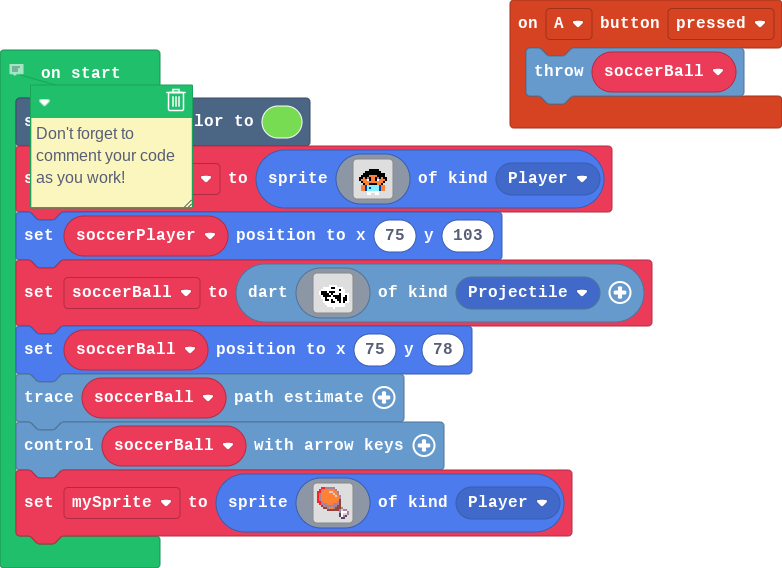
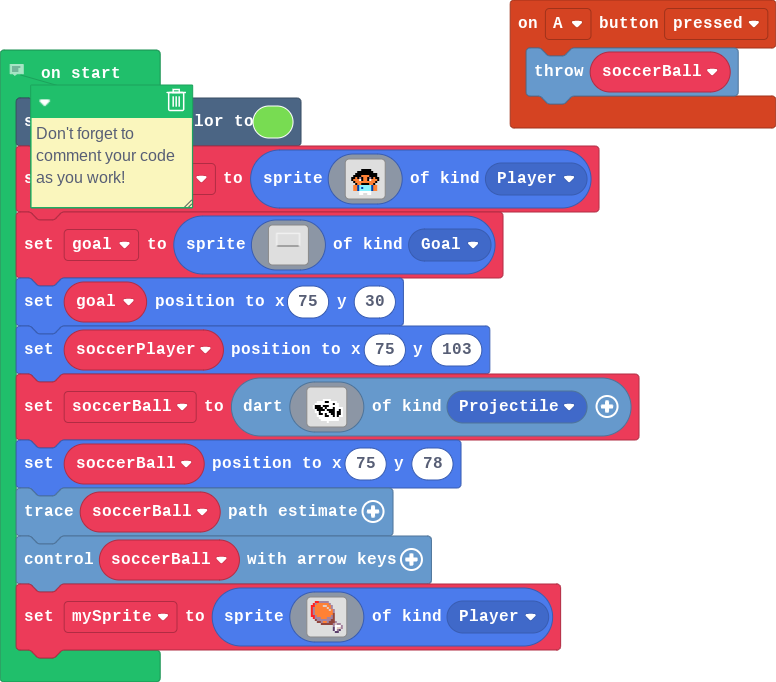
Update main.blocks, main.ts

diff --git a/main.ts b/main.ts
@@ -1,7 +1,10 @@
+namespace SpriteKind {
+    export const Goal = SpriteKind.create()
+}
 controller.A.onEvent(ControllerButtonEvent.Pressed, function () {
     soccerBall.throwDart()
 })
-// Don't forget to comment your code as you work!
+// Don't forget to comment your code as you work!        
 let soccerBall: Dart = null
 scene.setBackgroundColor(7)
 let soccerPlayer = sprites.create(img`
@@ -22,6 +25,69 @@ let soccerPlayer = sprites.create(img`
     . . . . . 1 1 1 1 1 1 . . . . . 
     . . . . . 1 1 . . 1 1 . . . . . 
     `, SpriteKind.Player)
+let goal = sprites.create(img`
+    ..........11111111111111111111111111111111111111111111111111111111111...........
+    ..........11111111111111111111111111111111111111111111111111111111111...........
+    ..........11.......................................................11...........
+    ..........11.......................................................11...........
+    ..........11.......................................................11...........
+    ..........11.......................................................11...........
+    ..........11.......................................................11...........
+    ..........11.......................................................11...........
+    ..........11.......................................................11...........
+    ..........11.......................................................11...........
+    ..........11.......................................................11...........
+    ..........11.......................................................11...........
+    ..........11.......................................................11...........
+    ..........11.......................................................11...........
+    ..........11.......................................................11...........
+    ..........11.......................................................11...........
+    ..........11.......................................................11...........
+    ..........11.......................................................11...........
+    ..........11.......................................................11...........
+    ..........11.......................................................11...........
+    ..........11.......................................................11...........
+    ..........11.......................................................11...........
+    ..........11.......................................................11...........
+    ..........11.......................................................11...........
+    ..........11.......................................................11...........
+    ..........11.......................................................11...........
+    ..........11.......................................................11...........
+    ..........11.......................................................11...........
+    ..........11.......................................................11...........
+    ..........11.......................................................11...........
+    ..........11.......................................................11...........
+    ..........11.......................................................11...........
+    ..........11fffffffffffffffffffffffffffffffffffffffffffffffffffffff11...........
+    ................................................................................
+    ................................................................................
+    ................................................................................
+    ................................................................................
+    ................................................................................
+    ................................................................................
+    ................................................................................
+    ................................................................................
+    ................................................................................
+    ................................................................................
+    ................................................................................
+    ................................................................................
+    ................................................................................
+    ................................................................................
+    ................................................................................
+    ................................................................................
+    ................................................................................
+    ................................................................................
+    ................................................................................
+    ................................................................................
+    ................................................................................
+    ................................................................................
+    ................................................................................
+    ................................................................................
+    ................................................................................
+    ................................................................................
+    ................................................................................
+    `, SpriteKind.Goal)
+goal.setPosition(75, 30)
 soccerPlayer.setPosition(75, 103)
 soccerBall = darts.create(img`
     . . . . . . . . . . . . . . . . 
